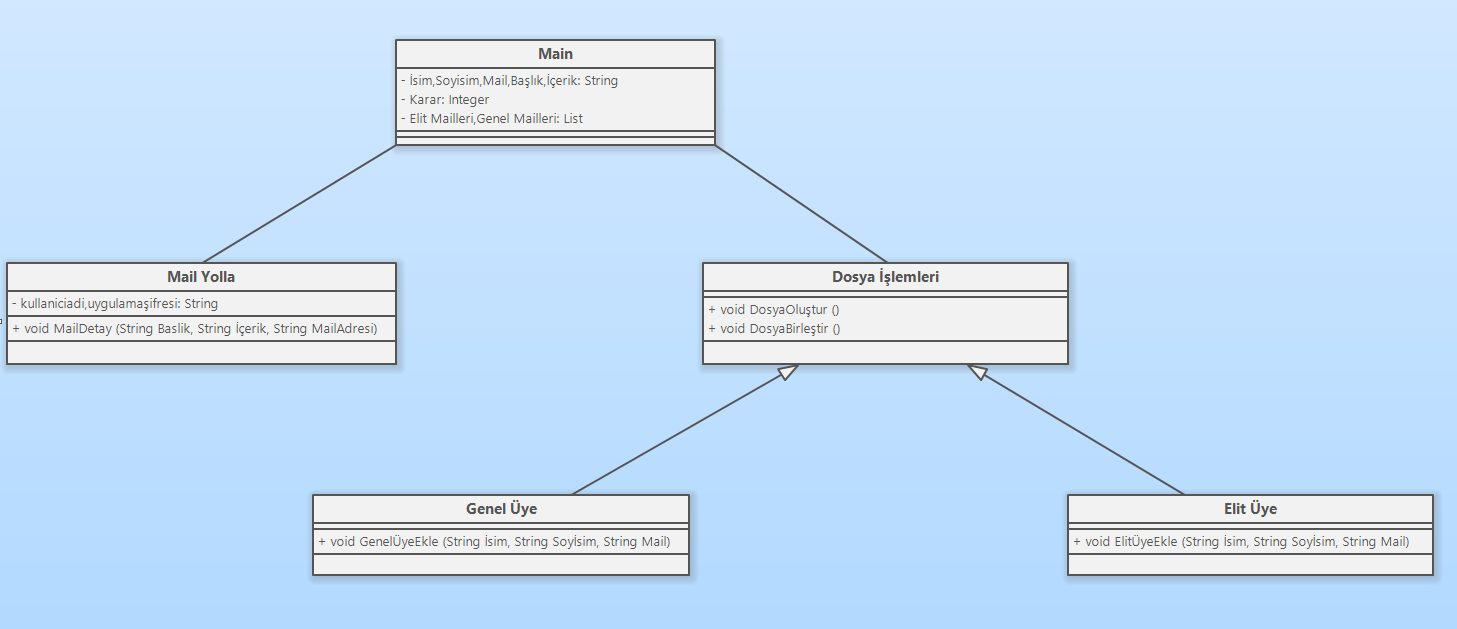
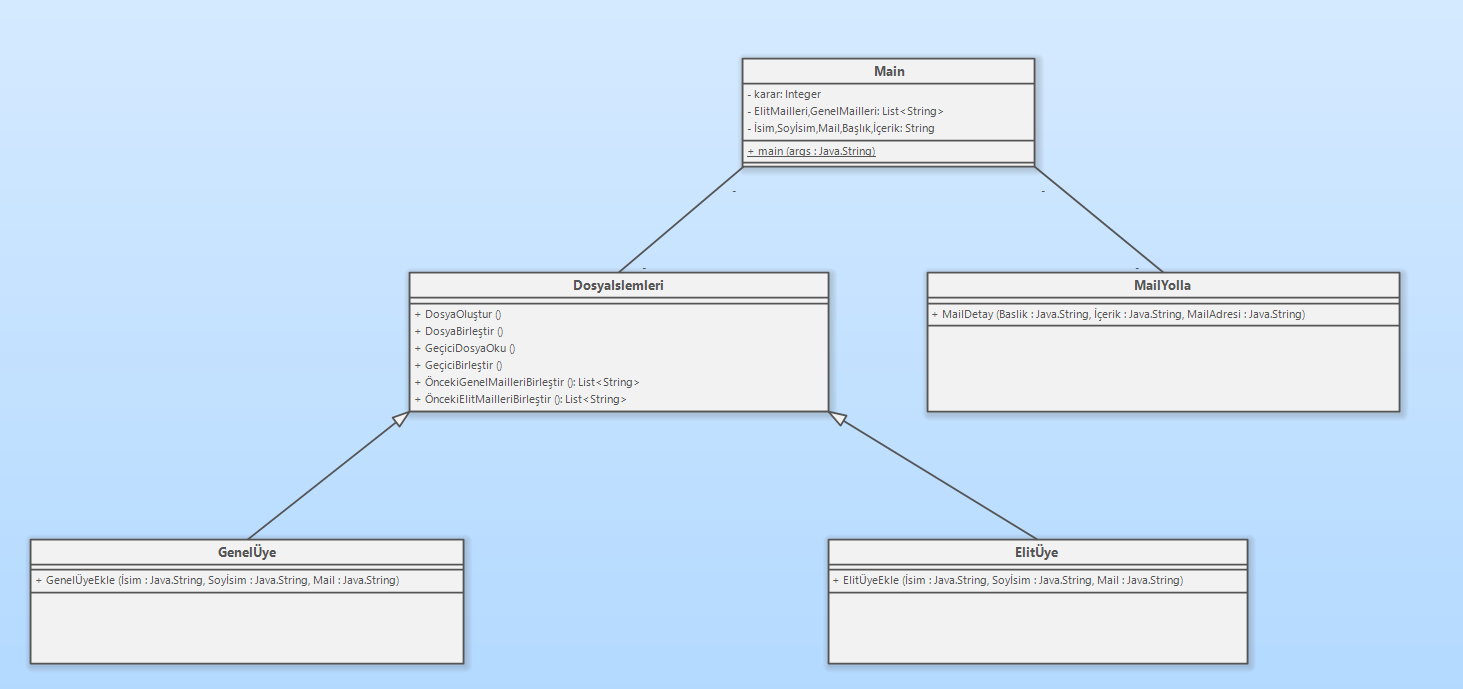
Yorumlar Eklendi Geçici-->Gecici Diye Değiştirildi

diff --git a/src/Main.java b/src/Main.java
@@ -23,8 +23,8 @@ public class Main{
         ElitÜye e=new ElitÜye();
         GenelÜye g=new GenelÜye();
         MailYolla m=new MailYolla();
-        d.GeçiciDosyaOku();
-        d.GeçiciBirleştir();
+        d.GeciciDosyaOku();
+        d.GeciciBirleştir();
         //Dosya İşlemlerinden Dosya Oluştur Methodunu Çağırıyoruz.
         d.DosyaOluştur();
         //Değişkenlerimizi Tanımlıyoruz
@@ -191,8 +191,9 @@ class DosyaIslemleri {
         br2.close();//BufferedReader'ı Kapatıyoruz.
         pw.close();//PrintWriter'ı Kapatıyoruz.
     }
-    void GeçiciDosyaOku()throws IOException{
-        FileWriter d1=new FileWriter("Elit.txt");//Elit Üyeler İçin txt Dosyası Oluşturuluyor.
+    void GeciciDosyaOku()throws IOException{//ÖNEMLİ!!! Başında Gecici Olan Metodlar Sadece PROGRAM ÇALIŞMADAN ÖNCE Kullanıcılar.txt Dosyası Doluysa Çalışır! 
+        //Bu Metodların Olmasının Sebebi Program Çalışamdan Önce .txt Dosyasında Bulunan Kişilere De Mail Yollanmasının Sağlanması!
+        FileWriter d1=new FileWriter("Elit.txt");//Elit Üyeler Dosyasının Üzerine Önceden Eklenen Elit Üyeleri Ekleyeceğiz(Önceden=Program Çalışmadan Önce Veya Bir Önceki Çalışmasında).
         d1.write("#ELİTÜYELER#\n");
         d1.close();//Dosya Kapatılıyor.
 
@@ -200,36 +201,36 @@ class DosyaIslemleri {
         d2.write("#GENELÜYELER#\n");
         d2.close();//Dosya Kapatılıyor.
 
-        FileWriter d3=new FileWriter("GeçiciElit.txt");//Kullanıcılar.txt Dosyası Önceden Doluysa Onları Kaydedeceğimiz Yeri Oluşturuyoruz.
-        FileWriter d4=new FileWriter("GeçiciGenel.txt");//Kullanıcılar.txt Dosyası Önceden Doluysa Onları Kaydedeceğimiz Yeri Oluşturuyoruz.
+        FileWriter d3=new FileWriter("GeciciElit.txt");//Kullanıcılar.txt Dosyası Önceden Doluysa Onları Kaydedeceğimiz Yeri Oluşturuyoruz.
+        FileWriter d4=new FileWriter("GeciciGenel.txt");//Kullanıcılar.txt Dosyası Önceden Doluysa Onları Kaydedeceğimiz Yeri Oluşturuyoruz.
         
-        PrintWriter pw1=new PrintWriter("GeçiciElit.txt");//Kullanıcılar.txt Dosyasının Üzerine Yazacağız.
-        PrintWriter pw2=new PrintWriter("GeçiciGenel.txt");//Kullanıcılar.txt Dosyasının Üzerine Yazacağız.
+        PrintWriter pw1=new PrintWriter("GeciciElit.txt");//Kullanıcılar.txt Dosyasının Üzerine Yazacağız.
+        PrintWriter pw2=new PrintWriter("GeciciGenel.txt");//Kullanıcılar.txt Dosyasının Üzerine Yazacağız.
 
-        BufferedReader br1=new BufferedReader(new FileReader("Kullanıcılar.txt"));//İlk Önce Elit.txt Dosyasından Okumaya Başlıyoruz.
+        BufferedReader br1=new BufferedReader(new FileReader("Kullanıcılar.txt"));//Kullanıcılar .txt Dosyasını Okuyoruz Eğer Önceden Bir Giriş Yapılmadıysa İşlem Yapmıyoruz.
         String line=br1.readLine();//Satırları "line" İsimli Bir Stringe Adıyoruz.
         if(line==null){//Kullanıcılar.txt Dosyası Önceden Dolu Değilse Hiçbir İşlem Yapma!
-            pw1.flush();
+            pw1.flush();//Streami Boşaltıyoruz.
             pw2.flush();//Streami Boşaltıyoruz.
             br1.close();//BufferedReader'ı Kapatıyoruz.
             pw1.close();//PrintWriter'ı Kapatıyoruz.
             pw2.close();//PrintWriter'ı Kapatıyoruz.
-            d1.close();
-            d2.close();
-            d3.close();
-            d4.close();
+            d1.close();//Yazıcıları Kapatalım.
+            d2.close();//Yazıcıları Kapatalım.
+            d3.close();//Yazıcıları Kapatalım.
+            d4.close();//Yazıcıları Kapatalım.
             return;
         }
-            if(line.contains("ELİT")){
+            if(line.contains("ELİT")){//Başlıkları Ayırt Etmek İçin Kullandığım Bir Fonksiyon.
                 line=br1.readLine();
-                while(line.contains("GENEL")==false){
+                while(line.contains("GENEL")==false){//Aynı Şekilde Genel Yazısına Gelene Kadar Devam Ediyor.
                     pw1.println(line);
                     line=br1.readLine();
                 }
             }
-            if(line.contains("GENEL")){
+            if(line.contains("GENEL")){//Başlıkları Ayırt Etmek İçin Kullandığım Bir Fonksiyon.
                 line=br1.readLine();
-                while(line!=null){
+                while(line!=null){//Aynı Şekilde null Olana Kadar Kadar Devam Ediyor.
                     pw2.println(line);
                     line=br1.readLine();
                 }
@@ -240,27 +241,26 @@ class DosyaIslemleri {
         br1.close();//BufferedReader'ı Kapatıyoruz.
         pw1.close();//PrintWriter'ı Kapatıyoruz.
         pw2.close();//PrintWriter'ı Kapatıyoruz.
-        d1.close();
-        d2.close();
-        d3.close();
-        d4.close();
+        d1.close();//Yazıcıları Kapatıyoruz.
+        d2.close();//Yazıcıları Kapatıyoruz.
+        d3.close();//Yazıcıları Kapatıyoruz.
+        d4.close();//Yazıcıları Kapatıyoruz.
     }
-    void GeçiciBirleştir()throws IOException{
-        FileWriter DosyaYaz1=new FileWriter("Elit.txt",true);
-        FileWriter DosyaYaz2=new FileWriter("Genel.txt",true);
+    void GeciciBirleştir()throws IOException{//Gecici Metodlarının Neden Var Olduklarını Üstteki Yorum Satırında Anlatmıştım, Aynısı Burada da Geçerli.
+        FileWriter DosyaYaz1=new FileWriter("Elit.txt",true);//Asıl Elit Dosyamızın Üzerine Eski Kullanıcıları Ekleyeceğiz.
+        FileWriter DosyaYaz2=new FileWriter("Genel.txt",true);//Asıl Genel Dosyamızın Üzerine Eski Kullanıcıları Ekleyeceğiz.
 
-
-        BufferedReader br1=new BufferedReader(new FileReader("GeçiciElit.txt"));//İlk Önce Elit.txt Dosyasından Okumaya Başlıyoruz.
+        BufferedReader br1=new BufferedReader(new FileReader("GeciciElit.txt"));//İlk Önce GeciciElit.txt Dosyasından Okumaya Başlıyoruz.
         String line=br1.readLine();//Satırları "line" İsimli Bir Stringe Adıyoruz.
 
-        while(line!=null){//Dosyadaki Boş Olmayan Bütün Satırları Tarayıp Kullanıcılar.txt Dosyasına Yazıyoruz.
+        while(line!=null){//Dosyadaki Boş Olmayan Bütün Satırları Tarayıp Elit.txt Dosyasına Yazıyoruz(Neden Diye Sorarsanız Kişi Ekledikten Sonra Hepsini Kullanıcılar.txt Dosyasında Tutacağız).
             DosyaYaz1.write(line+"\n");
             line=br1.readLine();
         }
-        BufferedReader br2=new BufferedReader(new FileReader("GeçiciGenel.txt"));//Genel.txt Dosyasını Okumaya Başlıyoruz.
+        BufferedReader br2=new BufferedReader(new FileReader("GeciciGenel.txt"));//GeciciGenel.txt Dosyasını Okumaya Başlıyoruz.
         line=br2.readLine();
 
-        while(line!=null){//Dosyadaki Boş Olmayan Bütün Satırları Tarayıp Kullanıcılar.txt Dosyasına Yazıyoruz.
+        while(line!=null){//Dosyadaki Boş Olmayan Bütün Satırları Tarayıp Genel.txt Dosyasına Yazıyoruz(Neden Diye Sorarsanız Kişi Ekledikten Sonra Hepsini Kullanıcılar.txt Dosyasında Tutacağız).
             DosyaYaz2.write(line+"\n");
             line=br2.readLine();
         }
@@ -271,38 +271,38 @@ class DosyaIslemleri {
 
     }
     List<String> ÖncekiGenelMailleriBirleştir()throws IOException{
-        List<String> GeçiciGenelMailleri = new ArrayList<>();
+        List<String> GeciciGenelMailleri = new ArrayList<>();//Eski Mailleri Dosya Üzerinden Okuyup Programa Dahil Edeceğiz!
         // E-Mail Patternını Oluşturuyoruz Ki .txt Dosyasından Mail Adreslerini Alabilelim.
         Pattern pat=Pattern.compile( "[a-zA-Z0-9]" + "[a-zA-Z0-9_.]" + "*@[a-zA-Z0-9]" + "+([.][a-zA-Z]+)+"); 
-        BufferedReader Okuyucu = new BufferedReader(new FileReader("Genel.txt")); 
-        //reading myInputFile.txt file 
+        BufferedReader Okuyucu = new BufferedReader(new FileReader("Genel.txt")); //Genel.txt Dosyasını Okumaya Başlıyoruz.
+        
         String line = Okuyucu.readLine(); 
         while (line != null) { 
         Matcher mat = pat.matcher(line); 
         while (mat.find()) { 
-        GeçiciGenelMailleri.add(mat.group());
+        GeciciGenelMailleri.add(mat.group());
         } 
         line = Okuyucu.readLine(); 
         } 
         Okuyucu.close();
-        return GeçiciGenelMailleri;
+        return GeciciGenelMailleri;//Mail Adreslerini Birleştirmek Üzere Return Ediyoruz.
     }
     List<String> ÖncekiElitMailleriBirleştir()throws IOException{
-        List<String> GeçiciElitMailleri = new ArrayList<>();
-        // Regular expression for email id 
+        List<String> GeciciElitMailleri = new ArrayList<>();//Eski Mailleri Dosya Üzerinden Okuyup Programa Dahil Edeceğiz!
+        // E-Mail Patternını Oluşturuyoruz Ki .txt Dosyasından Mail Adreslerini Alabilelim.
         Pattern pat=Pattern.compile( "[a-zA-Z0-9]" + "[a-zA-Z0-9_.]" + "*@[a-zA-Z0-9]" + "+([.][a-zA-Z]+)+"); 
-        BufferedReader Okuyucu = new BufferedReader(new FileReader("Elit.txt")); 
-        //reading myInputFile.txt file 
+        BufferedReader Okuyucu = new BufferedReader(new FileReader("Elit.txt")); //Elit.txt Dosyasını Okumaya Başlıyoruz.
+
         String line = Okuyucu.readLine(); 
         while (line != null) { 
         Matcher mat = pat.matcher(line); 
         while (mat.find()) { 
-        GeçiciElitMailleri.add(mat.group());
+        GeciciElitMailleri.add(mat.group());
         } 
         line = Okuyucu.readLine(); 
         } 
         Okuyucu.close();
-        return GeçiciElitMailleri;
+        return GeciciElitMailleri;//Mail Adreslerini Birleştirmek Üzere Return Ediyoruz.
     }
 }
 class ElitÜye extends DosyaIslemleri{
